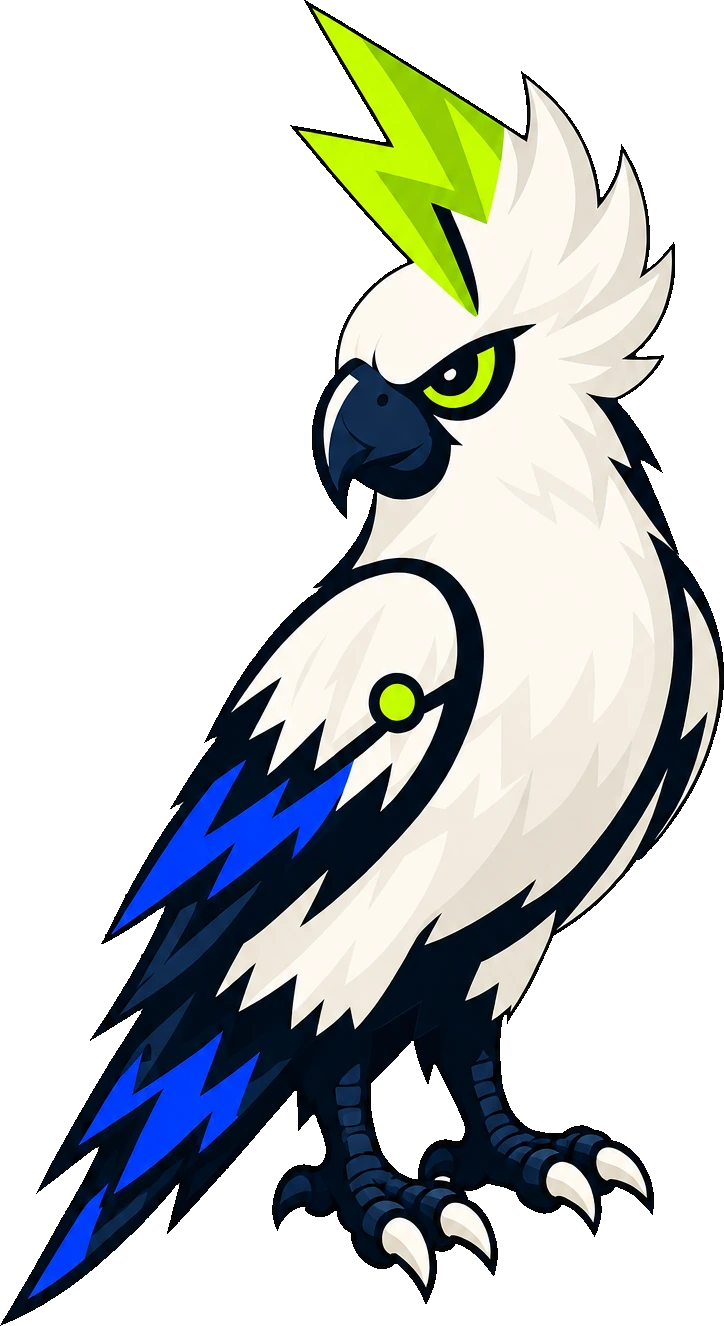
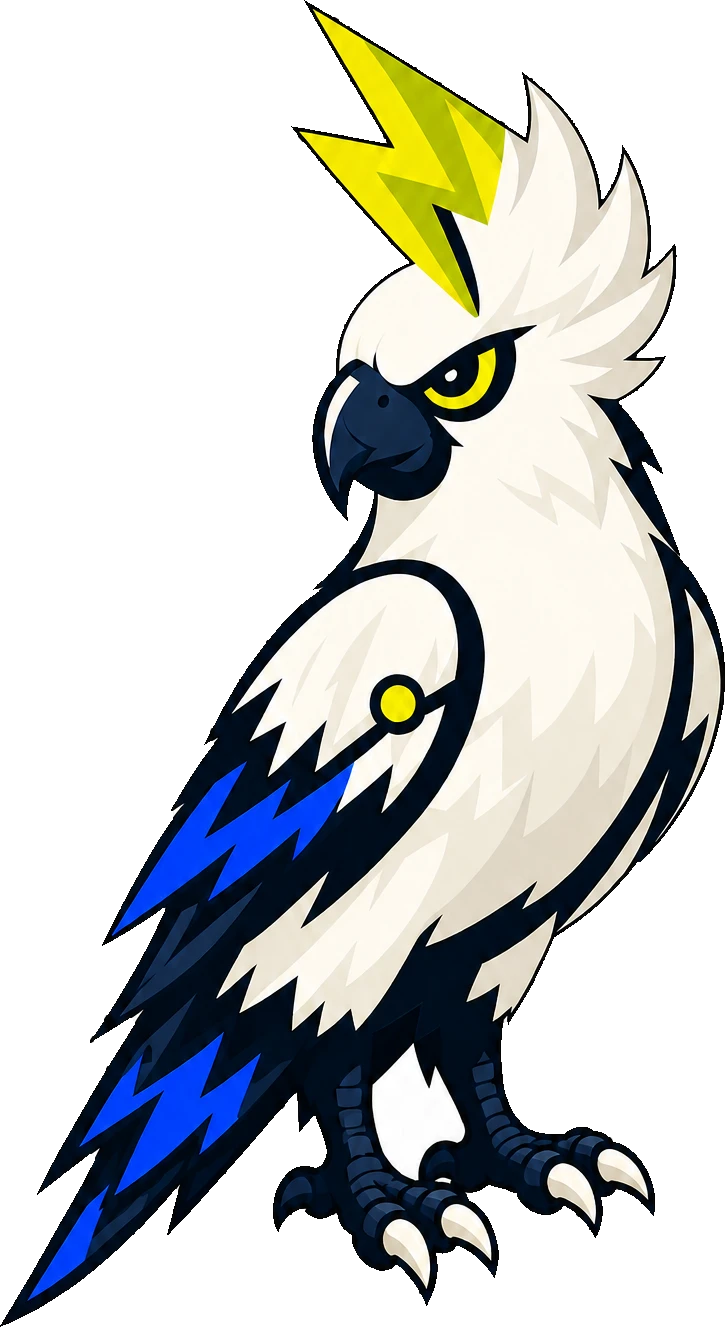
Deploy: sync site from workspace @ 0054a59

diff --git a/styles.css b/styles.css
@@ -209,19 +209,23 @@ h1{font-size:clamp(2.6rem,6.2vw,4.4rem);letter-spacing:-.04em;line-height:1.02;c
    primary-button-plus-text-link row. Every .ctas on the site is a hero row. */
 .ctas{display:flex;flex-wrap:wrap;gap:var(--s3);align-items:center;margin-top:var(--s5);}
 .hero-mascot{align-self:end;justify-self:center;}
-/* Feet level with the button (2026-08-11). Scoped off .art-wide: the branding
-   hero centres its figure instead and would be shunted up by this.
+/* Feet level with the button (2026-08-11). BOTH heroes since 2026-08-12 — the
+   branding hero used to centre its figure because it was a bird standing beside a
+   framed chart and there were no feet to land; its artwork is now a bare bird like
+   the homepage's, so it stands on the same floor.
    --bird-tail is how far the artwork continues BELOW the feet, as a fraction of
    the image height. Until 2026-08-12 this was 0 and unnamed: the old perched bird
    was cropped to its alpha bbox and its claws were its lowest pixel, so the image
-   bottom WAS the feet and a plain margin did the job. The replacement's tail
-   sweeps 22px past the claws — measured on the file, 22/1326 — so the same margin
-   left the feet floating ~10px high at 620px, and it got quietly worse the bigger
-   the bird was set. Measure this on every new file: it is not a property of the
-   layout, it is a property of the drawing, and at 0 the rule behaves exactly as
-   it did before. */
-:root{--bird-tail:.0166;}
-.hero-mascot:not(.art-wide){
+   bottom WAS the feet and a plain margin did the job. Measure this on every new
+   file: it is not a property of the layout, it is a property of the drawing, and
+   at 0 the rule behaves exactly as it did before.
+   Measured on the current files (alpha >= 64, claws isolated by x-window, because
+   both drawings put a wing or tail tip lower than the feet and a plain getbbox
+   would read that as the floor):
+     mascot-perched  725x1327, claws end y=1305, 21px of tail below -> .0158
+     mascot-chart    907x1105, claws ARE the lowest pixel            -> 0 */
+:root{--bird-tail:.0158;}
+.hero-mascot{
   margin-bottom:calc(var(--hero-floor) - var(--bird-h) * var(--bird-tail));}
 /* --flip is read by app.js when it writes the parallax transform. It used to be
    a hardcoded scaleX(-1) in the script, which silently mirrored ANY artwork put
@@ -261,8 +265,12 @@ h1{font-size:clamp(2.6rem,6.2vw,4.4rem);letter-spacing:-.04em;line-height:1.02;c
    is pushing the CTA into. 76vh keeps roughly 24px of clearance under the button
    at 720, 768 and 780 innerHeight; on anything tall enough it is inert and the
    620px ceiling is what binds. Re-derive it if the hero's padding, the nav height
-   or --bird-tail moves — it is a computed number, not a taste one. */
-:root{--bird-h:clamp(300px,min(44vw,76vh),620px);}
+   or --bird-tail moves — it is a computed number, not a taste one.
+   760px against 620 (2026-08-12, JP asked for really big on the new artwork). The
+   aspect is unchanged at 0.546, so the column still does not bind: 760px of height
+   is 415px of width against a 501px column. 52vw is the same fold arithmetic one
+   step wider; 76vh is untouched because the guard has to keep guarding. */
+:root{--bird-h:clamp(300px,min(52vw,76vh),760px);}
 /* --flip is 1 because THIS artwork already faces left in the file, into the copy.
    It was -1 for the previous perched bird, which faced right and needed mirroring;
    swapping the file without swapping this token turns the bird to face off the
@@ -280,15 +288,20 @@ h1{font-size:clamp(2.6rem,6.2vw,4.4rem);letter-spacing:-.04em;line-height:1.02;c
    --flip:1 — this artwork already faces left in the FILE. A CSS mirror would
    turn the chart's arrow over and sell a falling line on a page about growth,
    which is the entire reason this token exists. Do not "simplify" it away. */
-.hero-mascot.art-wide{align-self:center;}
-/* This artwork is 1.379x as wide as it is tall, so the figure column has to be
-   wider than the homepage's or max-width clamps the image and the bird comes out
-   short — which is the one thing the token exists to prevent.
-   Scoped with :has() so the homepage grid is untouched. */
-.hero-grid:has(.art-wide){grid-template-columns:minmax(0,1fr) minmax(0,1.2fr);}
-/* 1 / 0.9766 — the bird is 97.66% of this image's height, so the image is scaled
-   up by the reciprocal to land the BIRD on --bird-h. */
-.hero-mascot.art-wide img{--flip:1;height:calc(var(--bird-h) / 0.9766);
+/* Stands on the floor like the homepage bird (2026-08-12). It was align-self:center
+   while the artwork was a bird beside a framed chart — a figure with no feet at its
+   own bottom edge. The replacement is a bare pointing bird whose claws ARE its
+   lowest pixel, so --bird-tail is 0 here and the margin is the floor exactly. */
+.hero-mascot.art-wide{align-self:end;--bird-tail:0;margin-bottom:var(--hero-floor);}
+/* The old artwork was 1.379x as wide as it is tall and needed a wider figure column
+   than the homepage's. The replacement is PORTRAIT — 907x1105, 0.821 — so the column
+   goes back to the homepage's ratio. Scoped with :has() so the homepage is untouched
+   either way. */
+.hero-grid:has(.art-wide){grid-template-columns:minmax(0,1fr) minmax(0,.82fr);}
+/* No reciprocal any more: the bird fills this frame edge to edge (bbox is the whole
+   image), so its rendered height IS --bird-h. The old 1/0.9766 belonged to the
+   framed-chart file. */
+.hero-mascot.art-wide img{--flip:1;height:var(--bird-h);
   width:auto;max-width:100%;}
 
 /* THE SERVICES BIRD IS BIGGER THAN THE HOMEPAGE ONE (2026-08-12, JP's call), so
@@ -311,7 +324,7 @@ h1{font-size:clamp(2.6rem,6.2vw,4.4rem);letter-spacing:-.04em;line-height:1.02;c
    copy block entirely on a very wide monitor. Below ~1500px the column is the
    narrower of the two and the ceiling is inert. Widen the copy and the bird
    shrinks; there is no third place for the space to come from. */
-:root{--bird-h-wide:clamp(300px,42vw,620px);}
+:root{--bird-h-wide:clamp(300px,46vw,760px);}
 @media(min-width:901px){
   .hero-grid:has(.art-wide){
     --hero-copy-w:clamp(380px,32vw,460px);
@@ -322,12 +335,13 @@ h1{font-size:clamp(2.6rem,6.2vw,4.4rem);letter-spacing:-.04em;line-height:1.02;c
     grid-template-columns:minmax(0,var(--hero-copy-w)) minmax(0,1fr);
   }
   /* Width-driven, not height-driven, because the column is what binds at every
-     desktop width. 1.4124 = (1 / 0.9766) * (1000 / 725) — the image aspect times
-     the same bird-to-frame reciprocal used above — so --bird-h-wide stays a
-     statement about the BIRD even though it is spent as a max-width. New artwork
-     changes both constants; re-measure, don't carry these over. */
+     desktop width. 0.8208 = 907 / 1105, the image aspect, with no bird-to-frame
+     reciprocal because the bird fills the frame — so --bird-h-wide stays a
+     statement about the BIRD's height even though it is spent as a max-width. It
+     was 1.4124 for the landscape framed-chart file. New artwork changes this
+     constant; re-measure, don't carry it over. */
   .hero-mascot.art-wide img{height:auto;width:100%;
-    max-width:calc(var(--bird-h-wide) * 1.4124);}
+    max-width:calc(var(--bird-h-wide) * 0.8208);}
 }
 /* .hero carries no bottom padding — deliberate, so a cutout mascot can stand on
    the section edge. Stacked, the panel is the last thing in the hero and would

diff --git a/branding.html b/branding.html
@@ -122,7 +122,7 @@
          over with it. See the note on --bird-h in styles.css for why the height is
          driven off the bird rather than off this image. -->
     <figure class="hero-mascot art-wide" data-rise>
-      <img src="assets/mascot-chart.webp" width="1000" height="725" fetchpriority="high" decoding="async"
+      <img src="assets/mascot-chart.webp" width="907" height="1105" fetchpriority="high" decoding="async"
            alt="HagoDigital cockatoo mascot with a lightning-bolt crest, pointing at a bar chart with a lightning-bolt trend line.">
       <!-- The pull-quote that sat here said "I make people remember your
            business" — the same words now carried by the third benefit in the

diff --git a/es/index.html b/es/index.html
@@ -122,7 +122,7 @@
            languages share, so this needed no CSS of its own. -->
     </div>
     <figure class="hero-mascot" data-rise>
-      <img src="../assets/mascot-perched.webp" width="724" height="1326" fetchpriority="high" decoding="async"
+      <img src="../assets/mascot-perched.webp" width="725" height="1327" fetchpriority="high" decoding="async"
            alt="Mascota cacat&uacute;a de HagoDigital con cresta de rayo y plumas de rayo en el ala.">
     </figure>
   </div>

diff --git a/index.html b/index.html
@@ -125,7 +125,7 @@
            with the button instead of halfway up a list. -->
     </div>
     <figure class="hero-mascot" data-rise>
-      <img src="assets/mascot-perched.webp" width="724" height="1326" fetchpriority="high" decoding="async"
+      <img src="assets/mascot-perched.webp" width="725" height="1327" fetchpriority="high" decoding="async"
            alt="HagoDigital cockatoo mascot with a lightning-bolt crest and lightning-bolt wing feathers.">
     </figure>
   </div>

diff --git a/check-docs.py b/check-docs.py
@@ -1,0 +1,100 @@
+#!/usr/bin/env python3
+"""Fail when the docs describe a value the code no longer has.
+
+WHY THIS EXISTS
+Four documented facts went stale in a single day on 2026-08-12 — numpy "absent",
+"cannot vectorise a raster", the hero bird at 430px, and the system cards
+normalised on their long edge. Every one was true when written. None announced
+that it had stopped being true, because prose cannot fail.
+
+The pattern behind all four: the fact ALSO exists in code, the code changed, and
+the prose copy was left behind. So the fix is not discipline, it is a check —
+the same shape as check-motion.sh, which exists for the same reason.
+
+Only values that are BOTH stated in prose AND readable from source belong here.
+Anything else (judgement, history, reasoning) is not checkable and is not this
+script's business. Keep the list short: a check nobody trusts gets skipped.
+
+Run from site/:  py -3 -X utf8 check-docs.py
+Exit 1 on any mismatch. Wired into deploy.sh next to check-motion.sh.
+"""
+import os
+import re
+import sys
+
+HERE = os.path.dirname(os.path.abspath(__file__))
+CSS = open(os.path.join(HERE, "styles.css"), encoding="utf-8").read()
+NOTES = open(os.path.join(HERE, "BUILD-NOTES.md"), encoding="utf-8").read()
+ROOT = os.path.abspath(os.path.join(HERE, "..", "..", ".."))
+CLAUDEMD = open(os.path.join(ROOT, "CLAUDE.md"), encoding="utf-8").read()
+
+failures = []
+checks = 0
+
+
+def css_token(name):
+    m = re.search(r"--" + re.escape(name) + r"\s*:\s*([^;]+);", CSS)
+    return m.group(1).strip() if m else None
+
+
+def check(label, truth, doc_text, doc_name):
+    """The doc must contain the live value. Absence is the failure."""
+    global checks
+    checks += 1
+    if truth is None:
+        failures.append(f"{label}: could not read the value from styles.css")
+        return
+    if str(truth) not in doc_text:
+        failures.append(f"{label}: styles.css says '{truth}' — not found in {doc_name}")
+
+
+# --- the hero bird: three numbers, all of which moved today ------------------
+bird_h = css_token("bird-h")
+if bird_h:
+    ceiling = re.search(r",\s*(\d+)px\s*\)", bird_h)
+    check("--bird-h ceiling", ceiling.group(1) + "px" if ceiling else None, NOTES, "BUILD-NOTES.md")
+check("--bird-tail", css_token("bird-tail"), NOTES, "BUILD-NOTES.md")
+
+# --- the body face ----------------------------------------------------------
+m = re.search(r"--body\s*:\s*\"([^\"]+)\"", CSS)
+check("--body font", m.group(1) if m else None, NOTES, "BUILD-NOTES.md")
+
+# --- the six palette colours ------------------------------------------------
+for name in ("navy", "blue", "lime", "cream", "grey"):
+    v = css_token(name)
+    if v and v.startswith("#"):
+        check(f"--{name}", v.upper(), NOTES.upper(), "BUILD-NOTES.md")
+
+# --- the font files actually on disk match what the docs claim --------------
+fonts = sorted(f for f in os.listdir(os.path.join(HERE, "assets", "fonts"))
+               if f.endswith(".woff2"))
+checks += 1
+families = {f.split("-")[0] for f in fonts}
+for fam in families:
+    if fam.lower() not in NOTES.lower():
+        failures.append(f"font file family '{fam}' is on disk but absent from BUILD-NOTES.md")
+checks += 1
+if "inter-" in " ".join(fonts):
+    failures.append("inter-*.woff2 is still on disk — it was retired 2026-08-12")
+
+# --- CLAUDE.md must not have regrown past its budget ------------------------
+checks += 1
+LIMIT = 12000
+if len(CLAUDEMD) > LIMIT:
+    failures.append(f"CLAUDE.md is {len(CLAUDEMD):,} bytes, over the {LIMIT:,} budget — "
+                    f"it loads in FULL every session. Move detail into a doc read on demand.")
+
+# --- CLAUDE.md must still point at the notes it delegated to ----------------
+checks += 1
+if "BUILD-NOTES.md" not in CLAUDEMD:
+    failures.append("CLAUDE.md no longer points at BUILD-NOTES.md — the site detail "
+                    "became unreachable rather than moved")
+
+print(f"check-docs: {checks} checks")
+if failures:
+    print("\nFAIL — the docs describe something the code no longer does:\n")
+    for f in failures:
+        print(f"  · {f}")
+    print("\nFix the DOC, not the check. If the code is what changed, the doc is the stale one.")
+    sys.exit(1)
+print("check-docs: PASS — every documented value matches the source.")

diff --git a/BUILD-NOTES.md b/BUILD-NOTES.md
@@ -1,0 +1,163 @@
+<!-- Moved out of CLAUDE.md 2026-08-12. It was 13.3KB — 60% of a file that loads in
+     full at the start of EVERY session, including sessions that never touch the site.
+     Nothing here changed; only where it lives. Read this before any work on
+     clients/hagodigital/site/, and the `artwork-swap` and `site-builder` skills point here. -->
+
+# hagodigital.ai — build notes
+
+`site/` — the live site at hagodigital.ai. Deploys from a **separate** repo via `site/deploy.sh`.
+  Bilingual: English at the root, Spanish under `site/es/`, ES/EN switcher in the nav. The two
+  languages target **different segments on purpose** (English trades, Spanish high-ticket
+  professions) — see `decision-log.md`, don't sync the lists. Spanish is **transcreated**, never
+  word-swapped: the ES About hero is "Hago. En presente, primera persona.", not a translation.
+  **Rebuilt 2026-08-07 on the "Attract. Convert. Scale." design.** Eleven pages — EN
+  `index/about/branding/contact/start/thanks/404`, ES `index/about/contact/thanks` — plus `what-we-do.html`
+  and `how-we-work.html`, which are `noindex` redirect stubs pointing at `#what` and `#how`.
+  **`start.html` (2026-08-11) is where every English CTA now goes**, not the calendar. Two equal
+  doors — the brand brief then book, or book now — and the label is **"Start with a free call"** on
+  all nineteen of them. Built on the **homepage pillar pattern**, not its own layout: `pagehero` →
+  `band` → numbered `.pillar` rows alternating cream/navy, each with `.n`/`.h2`/`.sub`/`.lede`/
+  `.checks`/`.ctas`. Its two figures are **drawn SVG with solid fills** — the only page besides
+  `branding.html` with drawn art, and solid on purpose, since the system cards that read lighter than
+  their neighbours are exactly the ones drawn as outlines. Figure 01 carries its own navy panel on
+  the cream ground, figure 02 sits bare on navy — **matching the homepage, which does the same thing
+  with `.framed` asset 08 and bare asset 09**. Don't "fix" that into a matched pair. `app.js` carries both `start` and `book` destinations: **Spanish still goes
+  direct to the calendar**, because no Spanish brief exists. Equal weight between the two doors is
+  load-bearing, not styling — the moment door B reads as the lesser option the page costs enquiries
+  instead of improving them.
+  `branding.html` (2026-08-08) is the one deep service page: brand vs branding vs brand identity,
+  then the ten-part system. It is in the header and footer nav of the **English pages only** — no
+  transcreated ES version exists, so its ES toggle points at `/es/`, not a `/es/branding.html`.
+  It states the mascot, logo-suite and source-file claims **more specifically than the homepage
+  does**, against the wordmark-only rule and the unsigned IP assignment. JP shipped it knowing.
+  Structure: `index.html` 24KB, shared `styles.css`, six WebP images and six **self-hosted** WOFF2
+  (**Instrument Sans** body + Manrope display, both SIL OFL — no Google Fonts request). **Inter was
+  dropped 2026-08-12**: a detector flagged it as the single most common face in AI-generated UIs,
+  which is a poor look for a studio selling distinctiveness. Instrument Sans is 88.2KB against Inter's
+  141.4KB for the same three weights on the same latin subset, and it sets the homepage lede in two
+  lines where Inter took three. Body face is one token — `--body` — plus three `@font-face` rules and
+  **one preload link per page, 11 of them**; the preload is the part that gets missed. The
+  brand-discovery forms still name Inter in their own inline CSS and are built separately by
+  `build.py`. Assets are separate files on purpose;
+  the design arrived as one 0.83MB file with everything base64'd inline, which caches nothing.
+  Six-colour palette — navy `#000A18`, blue `#2365DE`, lime `#CEFF00`, yellow `#FFF200`, ivory
+  `#F8F5E6`, grey `#696D71`. **Navy is a section GROUND, not a theme**; the page alternates grounds.
+  **One theme: light.** **The palette list is not how the palette is used** — audited 2026-08-10 after a
+  deliverable came back off-brand. **Raw blue is never a fill:** all eight uses of `--blue` in
+  `styles.css` are focus outline, tick circle, ring border, hover border or link text, and on cream that
+  role is carried by `--blue-ink #1B4EB0` as *text*. **The only emphasis fills are lime and navy.**
+  **`--yellow` appears zero times** — it is one of the six and is not in the working system; don't reach
+  for it. Derived tokens exist because a raw one fails contrast: `--blue-lift #6E9BFF` (on navy),
+  `--blue-ink #1B4EB0` (on cream), `--ink #2E3540`, `--cream-dim #C9C4B4`, `--cream-mute #9AA0A8`,
+  `--navy-2 #050E1F`, `--navy-3 #0A1526`, `--cream-2 #EFEADB`. Buttons are **6px radius, not pills**;
+  motion is `--rise-t .78s` / `--rise-y 30px` / `--rise-step 95ms` / `--ease cubic-bezier(.2,.7,.3,1)`.
+  `mascot-flying.webp` and `mascot-perched.webp` are cut off their plates. **The perched bird was replaced
+  2026-08-12** — new artwork, cut off a near-white plate, **725×1327**, and the earlier ground-shadow-bar note
+  is retired with the file it described. **Both heroes were replaced again later the same day** with a matched
+  pair — a perched bird for the homepage and a pointing bird for branding, **so `mascot-chart.webp` no longer
+  holds a chart**; it is `907×1105` portrait where it used to be `1000×725` landscape, and the name is the
+  only thing left of the old file. **The plate on that batch keys at `--tol 7`, not the measured 11** — the
+  drawing's own ivory is inside 11 of the near-white plate and a default run holes the body and crest. Take
+  enclosed pockets on the branding file (one 10,465px pocket between the legs) and none on the perched one.
+  **`--bird-h` is now the HOMEPAGE only** (both languages) and reads
+  `clamp(300px,min(52vw,76vh),760px)` — the **76vh leg is a fold guard**, not styling: the CTA's bottom is
+  `nav + hero pad-top + --bird-h * (1 - --bird-tail)`, so a width-only size pushes the button off a 768px
+  laptop while measuring fine on a 900px one. It holds ~33–42px of clearance at 720/768/780 and is inert on
+  tall screens. `branding.html` went width-driven the same day and reads `--bird-h-wide` as a max-width, so the
+  two heroes no longer share a height and raising one does not touch the other. **`--flip` is `1` on both** —
+  each current file already faces left. **New artwork invalidates every one of these numbers silently —
+  re-measure, don't assume**, and that includes which way the bird faces.
+  **Both homepage heroes end on the CTA button** (2026-08-11, EN and ES alike). No reassurance line, no tick
+  row — those three claims moved down to About, where the same three were already being made at length, and the
+  old `Strategic / Practical / Results` wording is off the site entirely. **`--hero-floor` couples the copy
+  column's `padding-bottom` to the bird's `margin-bottom`**, which is what lands the feet level with the button;
+  hardcode either and the next change to the other breaks it silently. **`--bird-tail` is the second half of
+  that**, added 2026-08-12: it is how far the artwork continues BELOW the feet as a fraction of image height
+  (`.0158` — 21px of tail past the claws on a 1327px file; the branding bird's claws ARE its lowest pixel, so
+  `.art-wide` overrides it to `0`). It was 0 and unnamed while the old bird's claws
+  were its lowest pixel. **Measure it on every new file** — it belongs to the drawing, not the layout, and
+  getting it wrong floats the feet by an amount that grows with `--bird-h`. **Measure the claws, not the alpha
+  bbox**: both current drawings drop a wing or tail tip lower than the feet, so a plain `getbbox()` reads that
+  tip as the floor. Isolate the claw column on x first. **`verify.py` now measures this itself** and prints
+  `feet±N` against the CTA's bottom, failing past 2px — the claim is a number, not a sentence, and it is
+  skipped automatically below the stack breakpoint where the mascot sits under the copy. Measured 0.0px
+  feet-to-button on **all three pages** at 1920/1440/1280/1024. The
+  **streak field is deleted, the glow kept** — it's the only ground the bird has — and `.hero-streaks` keeps its
+  class because `app.js` reads it for the parallax layer. Four anchors are load-bearing across **11 files** —
+  `#brand` `#what` `#how` `#proof` — don't rename them, and don't quietly invalidate the nav label while keeping the ID.
+  **Voice is first person singular.** About states that a graphic designer is brought in and
+  managed; "we" survives only where it means JP and the reader ("if we're not a fit").
+  **Scroll motion, added 2026-08-07.** No library. Elements carry `data-rise` / `data-stagger` in
+  the markup and `app.js` adds `.in` via `IntersectionObserver`, one-shot. **Those attributes are
+  load-bearing across the same 11 files as the anchors** — they look like leftovers, have no visual
+  effect of their own, and deleting them kills the motion silently. The hidden state is gated on
+  `html.js`, set by an inline `<head>` script, so with JS off nothing is hidden and no crawler meets
+  an invisible section. Parallax rides the hero streak field and mascot **only, never copy**.
+  **`site/check-motion.sh` gates every deploy** (2026-08-08), called by `deploy.sh` before the clone
+  and kept unpublished by the existing `*.sh` filter. The layer fails in two directions and only one
+  is cosmetic: stripped attributes lose the motion, but a page that arms `html.js` without the means
+  to reveal ships its sections at `opacity:0` — **invisible content on a live page, no error**. The
+  check asserts *presence* of each leg, never counts occurrences, so ordinary edits pass. **Add any
+  new page to its `PAGES` list** — a page not listed is a page it cannot protect.
+  **The hero flip is a token, not a magic number.** `app.js` reads `--flip` off `.hero-mascot img`
+  (default `-1`). `branding.html` sets `1` because its artwork already faces left *in the file*.
+  **The declining-chart problem is closed (2026-08-12)** — it was open since 2026-08-11 and the fix was not
+  a token. The artwork that carried the falling bars is gone; the branding hero is now a bare bird pointing
+  up and left, so there is no chart to read as decline and no flip that trades the reading for the bird's
+  direction. Do not reintroduce a chart into this slot without re-reading that argument.
+  **Supplied artwork is cut off its plate, never pasted as a rectangle.** Never a global colour key —
+  the bird's wings, beak and feet are all dark navy and a global key holes
+  them. **The framed-panel exception is retired (2026-08-11)**: the branding hero's third file keys
+  cleanly, so the radius, hairline and shadow are **deleted** from `.hero-mascot.art-wide img`.
+  **This generator's files have NO clean plate — assume all three defects on every new batch** (learned
+  the hard way, 2026-08-11, one of them on the live site):
+  1. The plate arrives **near-white**, not near-navy. Test **bright AND neutral**: the ivory tile is
+     `(248,245,230)`, an 18-point channel spread, and that gap — not any brightness threshold — is the
+     whole safety margin. Widen the neutrality tolerance past it and the tiles get eaten.
+  2. A pocket of plate can be **sealed off by artwork** where a border flood never reaches. Key enclosed
+     regions too, but only on an **even split of the two checker tones** (≥45% each, ≥3000px). Set from
+     measurement: real pockets sit at 50/47 and 48/46, nothing else gets both tones past 38%. A loose
+     15% mix ate the A's crossbar, the ruler and the cap's monogram — the failure a tight threshold
+     prevents looks like **ragged artwork**, not leftover plate.
+  3. Every outline is wrapped in a **noisy ring dipping to ~193** that both survives the plate test and
+     fragments the plate into islands the border fill can't reach. That is what a "white border" is —
+     it shipped as an 8px band and JP caught it live. Fix by **growing the keyed region inward** through
+     anything still light and neutral (≥170, spread ≤14); it stops itself on outlines and on colour.
+  Then **render it on the real ground and look** — corner measurement can't decide this, and a plate
+  that measures clean at the corners still shows when a glow sits behind it.
+  Spacing is a scale — `--s1`…`--s6` (8/12/16/24/32/48) — and every section pad derives from
+  `--sect`, so the page rescales together. Don't reintroduce a one-off px value.
+  **No phone number anywhere on the site** (2026-08-07) — no `tel:`, none in the JSON-LD. WhatsApp
+  carries it from `contact.html` and `thanks.html`. The number stays on the GBP, so NAP is
+  **deliberately asymmetric**; see `website-rules.md`.
+  **The nav collapses to the burger at 1100px, not 960** — Spanish doesn't fit the band below it.
+  **Two live claims are knowingly ahead of the docs**: the hero promises "AI workflows", which are
+  parked until three websites ship, and section 01 promises "You own the files outright", which
+  needs the designer IP clause. Both are JP's decisions — don't quietly tidy either away.
+  **The Decision is not on the site.** It's the first sellable thing and the homepage never
+  mentions it. Deliberate as of 2026-08-07; see the project record.
+  **Both contact pages sell the call** (2026-08-09). The booking button and a WhatsApp text-link sit
+  in the hero; the old "Two ways to reach me" card pair is gone and **email is off the contact route
+  in both languages** — the form is the same act with better answers, and email stays in the footer.
+  Order runs book · why it's worth booking · the fallback form · where I work · book again.
+  **The ten-part system grid is ten raster cards, zero SVG** (2026-08-11). The art box is square and
+  `object-fit` is `contain`, not cover — cover cropped the microphone's speech bubbles and the swatch
+  fan's outer cards off. **Scale is normalised in the ASSET, not the box**: every drawing is cut to its
+  own bounds and re-centred so the **geometric mean of its visible bbox is 480 of 640** (2026-08-12).
+  It was the LONG EDGE at 76% until then, and that was the wrong measure — it matches a tall thin
+  object and a wide flat one on whichever axis they happen to be long in, and lets the other axis land
+  anywhere. Measured that way the seven tiles sat at 471–486 while the microphone, the swatch fan and
+  the open book sat at 374, 426 and 434 — the exact three JP picked out by eye. Live spread is now 4%.
+  **Measure the bbox on alpha ≥ 64, not on a plain `getbbox()`**: the keying leaves a near-transparent
+  halo that is up to ~45px a side, and sizing off it lands the visible drawing 100px narrower than the
+  arithmetic promises. The microphone caps at 462 rather than 480 because nothing may touch the frame
+  edge. A new file at a different fill will look wrong however `.scard .art` is styled — re-measure,
+  don't just swap it. Tooling: `_shared/artwork/swap.py`.
+  **`branding.html` opens its difference section with a `.band on-navy`** (2026-08-11), the same device
+  the homepage uses for "Three pillars. One connected system." — `--navy-2`, a shade off the hero so the
+  two navy blocks read as separate. `#difference` sits on the band. Its `.callout` and the `.endbar`
+  share one panel: navy ground, lime 56px disc, cream emphasis, `--s5`. On the band, a two-line heading's
+  second line takes `--blue-lift`; `--blue-ink` is mixed for cream and fails on navy.
+  Live at `7621abf`. Pushing this repo does **not** publish; run `deploy.sh`, then verify **live
+  content** — the `build.json` SHA only proves a file was written.
+
